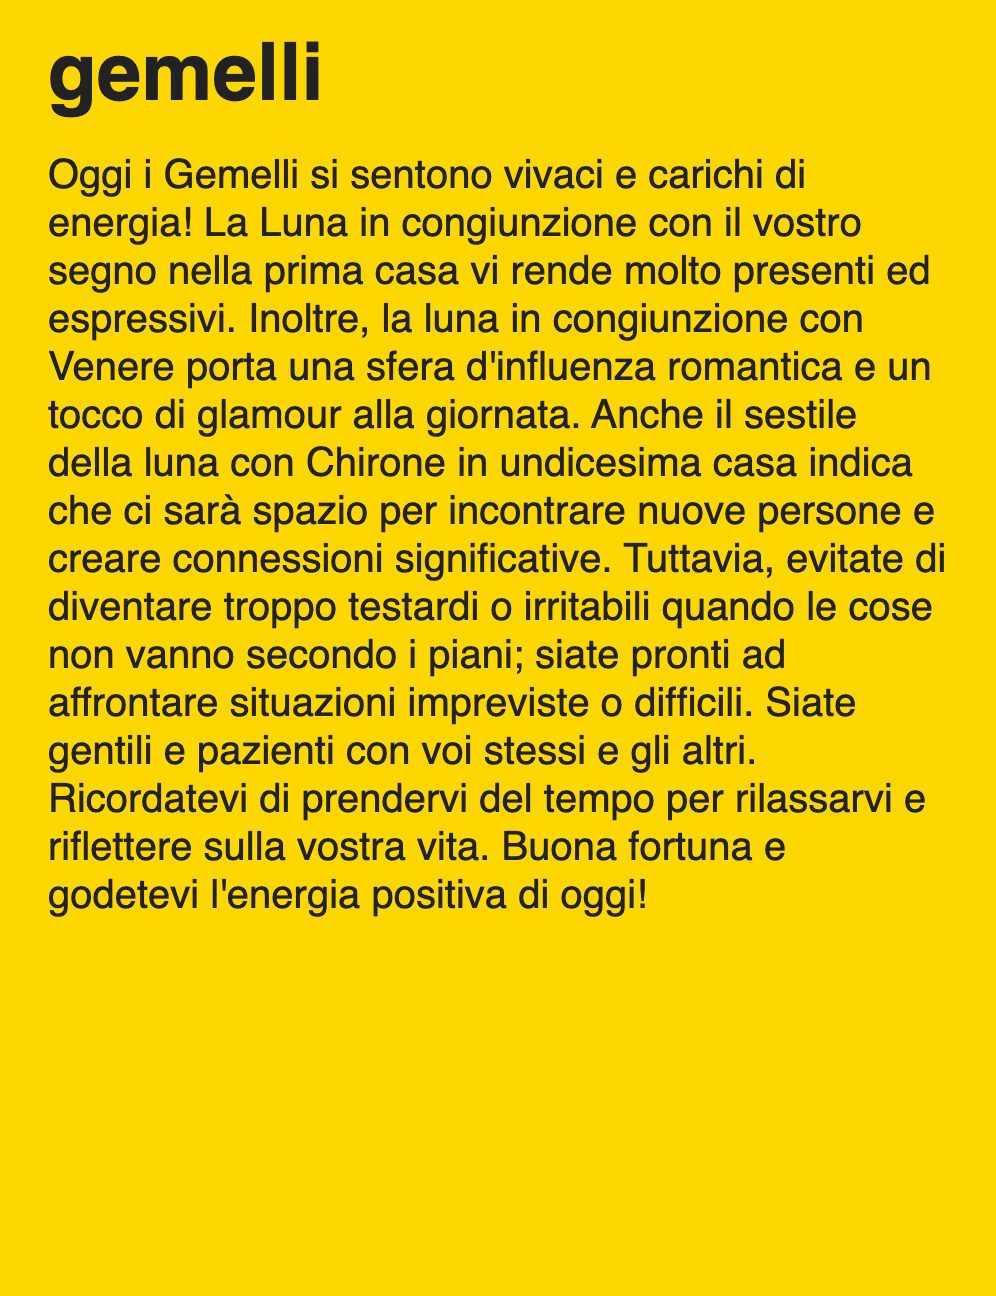
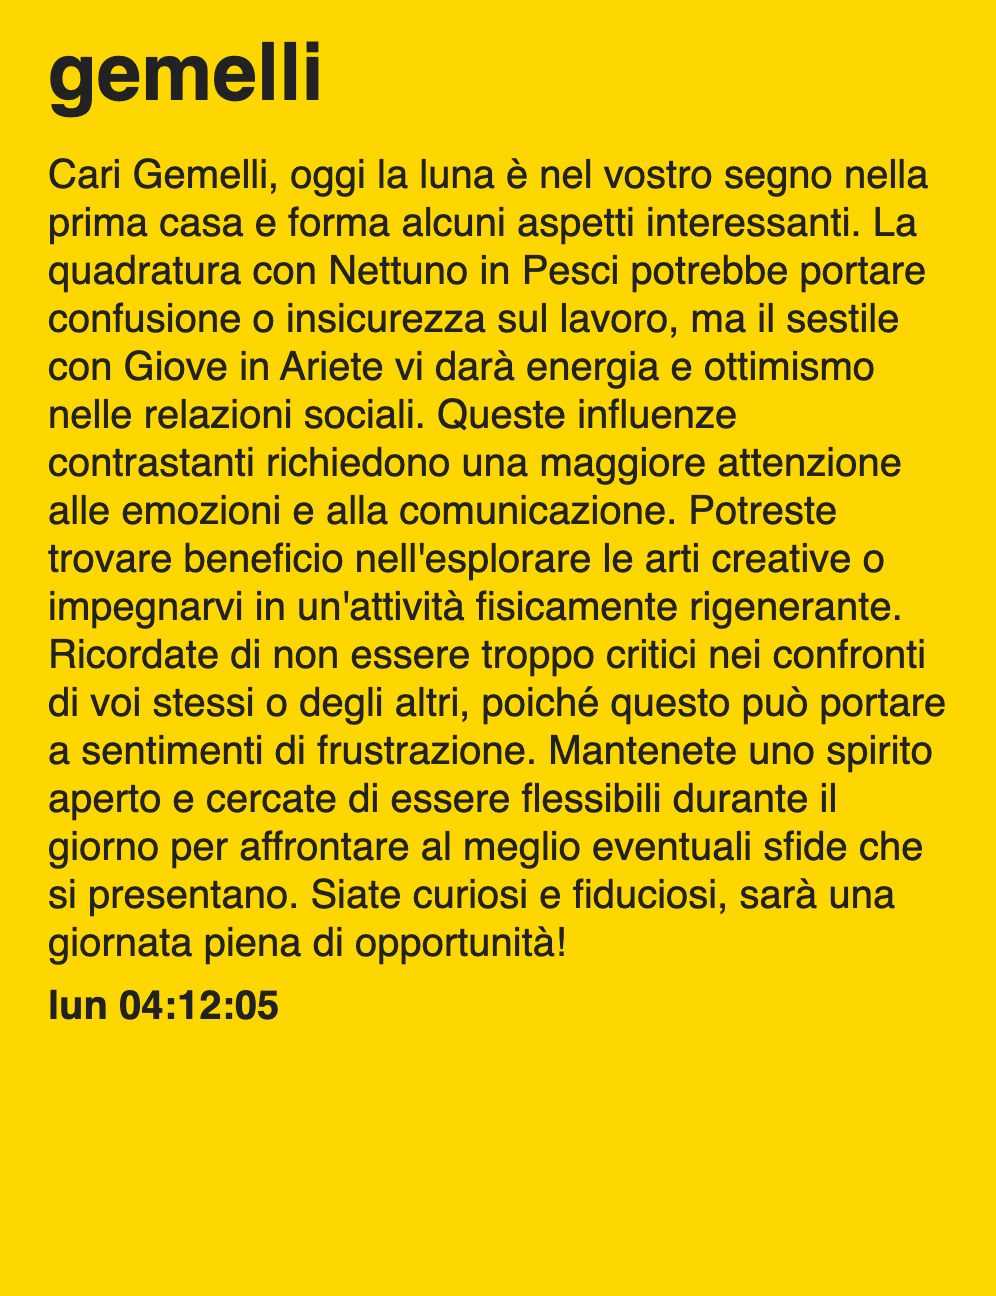
added timestamps for testing

Changed region(s): [[0.0311, 0.1235, 0.9649, 0.8025]]

diff --git a/src/libs/dates.js b/src/libs/dates.js
@@ -85,3 +85,15 @@ export function formatItalianDate(dateStr) {
   return {today:todayString, yesterday: subtractOneDay(today), tomorrow: addOneDay(today)}
 
   }
+
+
+ export function getItalianTimestamp() {
+    const days = ['dom', 'lun', 'mar', 'mer', 'gio', 'ven', 'sab'];
+    const now = new Date();
+    const day = days[now.getDay()];
+    const hour = now.getHours().toString().padStart(2, '0');
+    const minute = now.getMinutes().toString().padStart(2, '0');
+    const second = now.getSeconds().toString().padStart(2, '0');
+    return `${day} ${hour}:${minute}:${second}`;
+  }
+  

diff --git a/src/components/Card.js b/src/components/Card.js
@@ -1,3 +1,4 @@
+import { getItalianTimestamp } from "@/libs/dates";
 import Head from "next/head";
 import React from "react";
 import { zodiacSigns } from "../../assets/zodiacSigns";
@@ -17,6 +18,7 @@ const Card = ({ data}) => {
           <article className="">
             {horoscope}
           </article>
+          <div className="font-bold p-4 mx-auto timestamp">{getItalianTimestamp()}</div>
         </div>
         <style jsx>
           {`

diff --git a/src/libs/generateImage.js b/src/libs/generateImage.js
@@ -26,6 +26,11 @@ export default async function generateImage(htmlString, signName) {
               line-height: 120%;
               
             }
+            .timestamp {
+              font-weight: bold;
+              margin: 0 auto;
+              padding-top: 15px;
+            }
           </style>
         </head>
         <body>${htmlString}</body>
